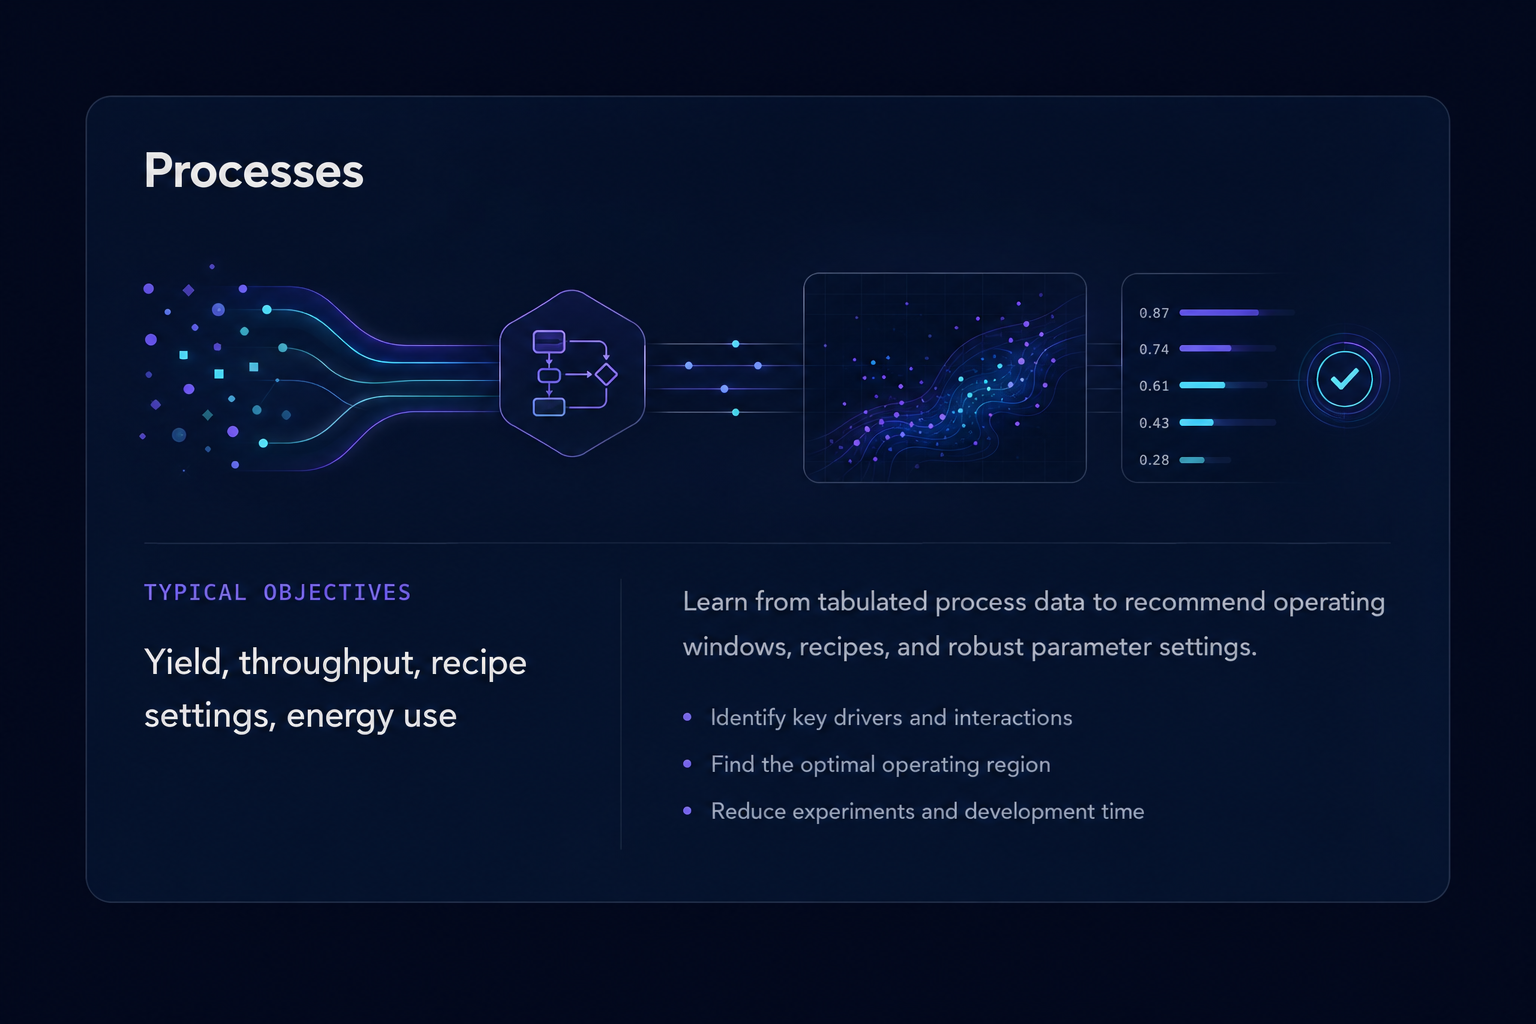
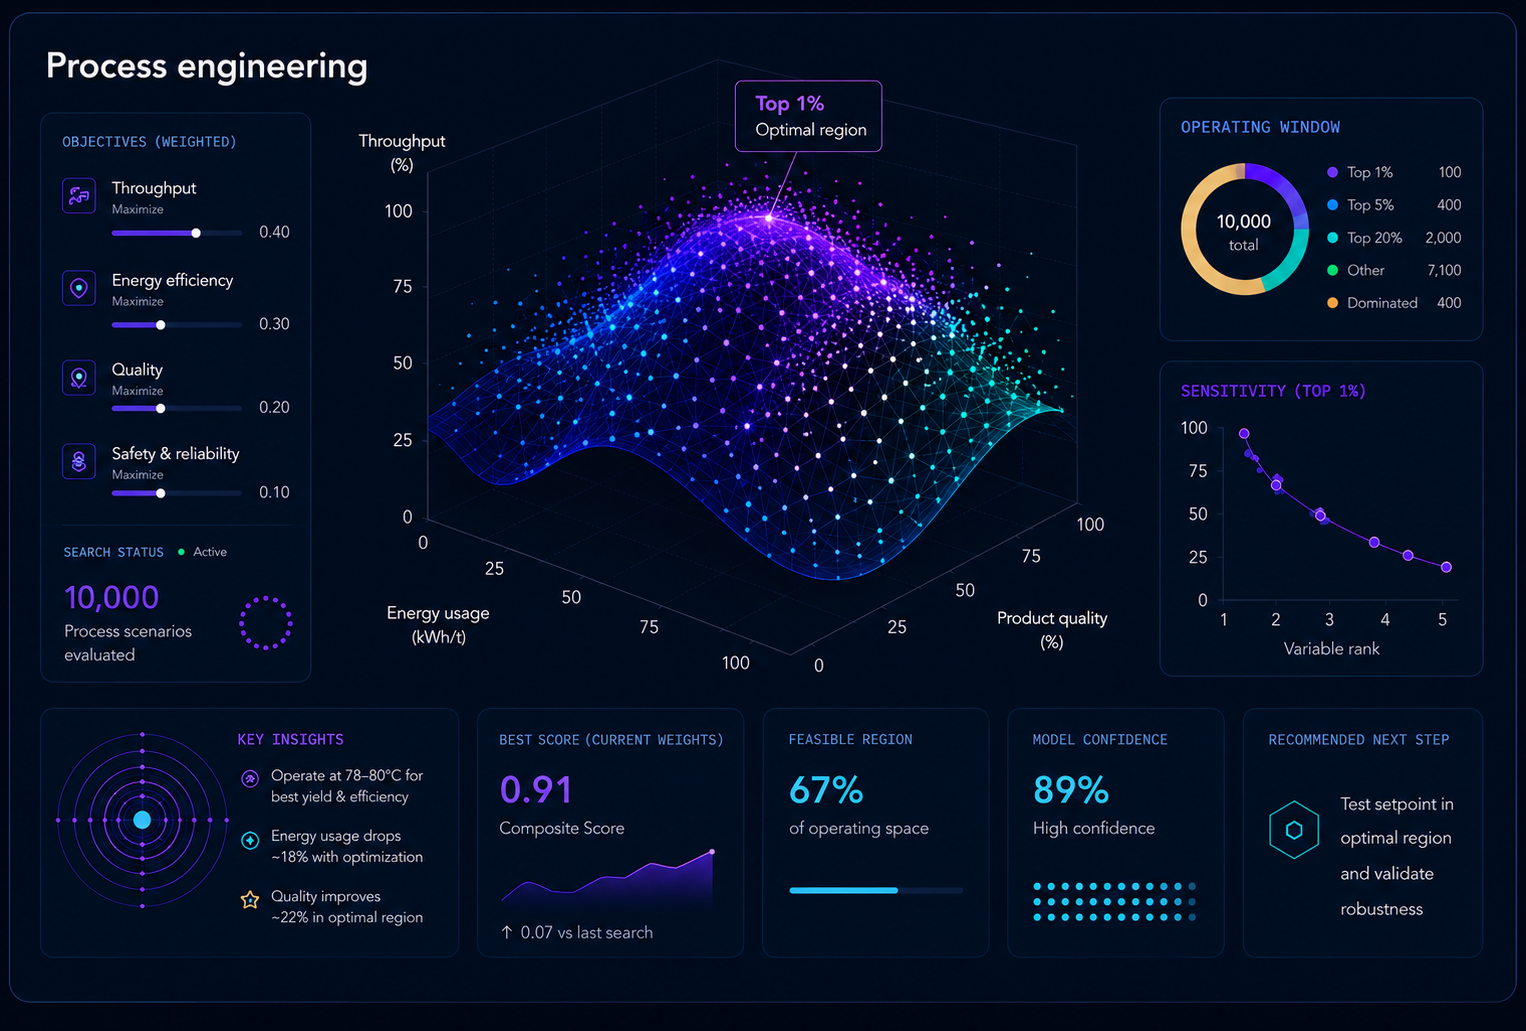
feat: refine landing page visuals and storyline

diff --git a/frontend/src/components/LandingPage.tsx b/frontend/src/components/LandingPage.tsx
@@ -2,8 +2,8 @@ import { useCallback, useEffect, useRef, useState, type MouseEvent } from 'react
 import { SignInButton, SignUpButton } from '@clerk/clerk-react'
 import batteriesImage from '../../assets/batteries.png'
 import coverageMapImage from '../../assets/coverage-map.png'
-import electrolyzersImage from '../../assets/electrolyzers.png'
-import manufacturingImage from '../../assets/manufacturing.png'
+import catImage from '../../assets/CAT.png'
+import miningImage from '../../assets/mining.png'
 import materialsImage from '../../assets/materials.png'
 import processImage from '../../assets/process.png'
 import residualPlotImage from '../../assets/residual-plot.png'
@@ -19,10 +19,10 @@ const NAV_ITEMS = [
 ]
 
 const PROCESS_STAGES = [
-  { number: '1', title: 'Documents', desc: 'Pressure requirement A sits on PDF page 324; material constraint B is buried in Word document 5.', meta: 'Raw engineering memory' },
-  { number: '2', title: 'Structure', desc: 'Mirai links both to the same pump, line, or vessel — and flags the collision for review.', meta: 'Approved project schema' },
-  { number: '3', title: 'Questions', desc: 'Ask which assets violate pressure limits, which constraints conflict, and what changed before downtime.', meta: 'Traceable answers' },
-  { number: '4', title: 'Predictions', desc: 'Prioritize inspections, maintenance actions, and operating changes before failure or shutdown.', meta: 'Decision support' },
+  { number: '1', title: 'Maintenance', desc: 'Unify work orders, inspection notes, failure history, and sensor exports to decide which assets need attention first.', meta: 'Asset priority' },
+  { number: '2', title: 'Operating Windows', desc: 'Connect requirements, plant records, and process data to find safer, more efficient settings.', meta: 'Recommended settings' },
+  { number: '3', title: 'Constraint Conflicts', desc: 'Surface mismatched limits across PDFs, spreadsheets, and engineering notes before they become operational risk.', meta: 'Review queue' },
+  { number: '4', title: 'Downtime Risk', desc: 'Learn from fragmented historical signals to anticipate where intervention is most likely to pay off.', meta: 'Decision support' },
 ]
 
 const PRODUCT_STAGES = [
@@ -95,11 +95,10 @@ const CANDIDATES = [
 ]
 
 const INDUSTRIES = [
-  { title: 'Processes', objectives: 'Yield, throughput, process settings, energy use', detail: 'Learn from tabulated process data to recommend operating windows, formulations, and robust parameter settings.', image: processImage },
   { title: 'Batteries', objectives: 'Capacity retention, fast-charge, safety margins, cost', detail: 'Balance formation protocols, material formulations, and cycle-life targets under sparse experimental budgets.', image: batteriesImage },
   { title: 'Materials', objectives: 'Strength, fatigue, corrosion, manufacturability', detail: 'Connect composition and processing variables to measured properties with traceable surrogate models.', image: materialsImage },
-  { title: 'Electrolyzers', objectives: 'Efficiency, lifetime, operating window, stack cost', detail: 'Optimize operating conditions while keeping durability and degradation risks visible.', image: electrolyzersImage },
-  { title: 'Advanced manufacturing', objectives: 'Yield, cycle time, defects, energy use', detail: 'Rank parameter sets for production experiments where downtime and scrap are expensive.', image: manufacturingImage },
+  { title: 'Electrolyzers', objectives: 'Efficiency, lifetime, operating window, stack cost', detail: 'Optimize operating conditions while keeping durability and degradation risks visible.', image: processImage },
+  { title: 'Advanced manufacturing', objectives: 'Yield, cycle time, defects, energy use', detail: 'Rank parameter sets for production experiments where downtime and scrap are expensive.', image: miningImage },
 ]
 
 const scatterPoints = Array.from({ length: 40 }, (_, i) => ({
@@ -116,11 +115,11 @@ function showDemoContactMessage(event: MouseEvent<HTMLElement>) {
 }
 
 function Eyebrow({ children }: { children: string }) {
-  return <p className="mb-4 font-mono text-[0.75rem] uppercase tracking-[0.15em] text-[#7C5CFF]">{children}</p>
+  return <p className="mb-5 inline-flex rounded-full border border-violet-300/25 bg-[#6D5DFB]/12 px-3 py-1.5 font-mono text-[0.72rem] font-semibold uppercase tracking-[0.14em] text-[#B9AEFF] shadow-[0_0_18px_rgba(109,93,251,0.08)]">{children}</p>
 }
 
 function Meta({ children, className = '' }: { children: string; className?: string }) {
-  return <p className={`font-mono text-[10px] uppercase tracking-[0.08em] text-[#8899BB] ${className}`}>{children}</p>
+  return <p className={`font-mono text-[10px] font-semibold uppercase tracking-[0.08em] text-[#AEBBDD] ${className}`}>{children}</p>
 }
 
 function MiraiLogo({ className = '' }: { className?: string }) {
@@ -210,8 +209,8 @@ function Hero() {
 
           <div className="mt-12 grid w-full gap-4 sm:grid-cols-2 lg:w-[min(1080px,calc(100vw-3rem))] lg:grid-cols-4">
             {[
-              { icon: '01', label: 'Knowledge', desc: 'The information already exists: requirements, reports, logs, test results. It is just impossible to use together.' },
-              { icon: '02', label: 'Structure', desc: 'Your experts know the answers. Mirai helps turn what lives in documents, spreadsheets, and people’s heads into approved project data.' },
+              { icon: '01', label: 'Knowledge', desc: 'The information already exists: requirements, reports, logs, and test results. It is scattered across systems and formats.' },
+              { icon: '02', label: 'Structure', desc: 'Your experts know the answers. Mirai helps bring what lives in documents, spreadsheets, and people’s heads into one trusted engineering view.' },
               { icon: '03', label: 'Learn', desc: 'Teams should not spend hours hunting for information. They should see patterns, risks, constraints, and opportunities.' },
               { icon: '04', label: 'Decide', desc: 'The next project should not start from zero. Every recommendation should build on what you already know.' },
             ].map((feature, index) => (
@@ -275,14 +274,17 @@ function ProblemDecisions() {
 
         <div className="mt-12 grid gap-4 md:grid-cols-4">
           {[
-            ['Maintenance', 'Prioritize assets before downtime.'],
-            ['Processes', 'Choose operating changes with evidence.'],
-            ['Products', 'Compare designs before expensive builds.'],
-            ['Experiments', 'Run the test that teaches the most.'],
-          ].map(([title, copy]) => (
-            <div key={title} className="rounded-2xl border border-violet-300/20 bg-[#09152F] p-6 text-center">
-              <h3 className="text-xl font-semibold text-[#F6F4EA]">{title}</h3>
+            ['01', 'Maintenance', 'The question becomes which asset deserves attention first, not where the evidence is stored.'],
+            ['02', 'Processes', 'The question becomes which operating change is safest and most valuable to make next.'],
+            ['03', 'Products', 'The question becomes which design or formulation should move forward before expensive builds begin.'],
+            ['04', 'Experiments', 'The question becomes which test will reduce uncertainty the most for the budget available.'],
+          ].map(([num, title, copy]) => (
+            <div key={title} className="group relative overflow-hidden rounded-2xl border border-violet-300/20 bg-[#09152F] p-6 transition-all duration-300 hover:-translate-y-0.5 hover:border-violet-300/35 hover:bg-[#0B1938]">
+              <div className="absolute inset-x-0 top-0 h-px bg-gradient-to-r from-transparent via-[#63D7FF]/45 to-transparent opacity-0 transition-opacity duration-300 group-hover:opacity-100" />
+              <span className="font-mono text-[11px] font-semibold tracking-[0.16em] text-[#63D7FF]">{num}</span>
+              <h3 className="mt-4 text-xl font-semibold text-[#F6F4EA]">{title}</h3>
               <p className="mt-3 text-sm leading-relaxed text-[#D6DEF0]">{copy}</p>
+              <div className="mt-6 h-px w-12 bg-gradient-to-r from-[#7C5CFF] to-transparent" />
             </div>
           ))}
         </div>
@@ -326,17 +328,17 @@ function Workflow() {
     <section id="workflow" className="relative border-t border-violet-300/15 bg-[#030716] py-16">
       <div className="mx-auto max-w-[1400px] px-6">
         <div className="mx-auto max-w-2xl text-center">
-          <Eyebrow>The Mirai workflow</Eyebrow>
+          <Eyebrow>Second solution</Eyebrow>
           <h2 className="text-3xl font-semibold leading-tight tracking-tight text-[#F6F4EA] sm:text-4xl">From engineering knowledge to ranked decisions.</h2>
           <p className="mt-4 text-sm leading-relaxed text-[#C5D0E6]">Mirai supports both operational engineering knowledge and structured product R&amp;D data before applying validated models and optimization.</p>
         </div>
         <div className="mt-12 rounded-2xl border border-violet-300/15 bg-[#071126]/60 p-5">
-          <Meta className="text-[#63D7FF]">Use Case 1 — Process Engineering</Meta>
-          <h3 className="mt-2 text-2xl font-semibold tracking-tight text-[#F6F4EA]">Organize operational knowledge before ML.</h3>
+          <Meta className="text-[#63D7FF]">Example 1 — Process Engineering</Meta>
+          <h3 className="mt-2 text-2xl font-semibold tracking-tight text-[#F6F4EA]">Unify fragmented process data and make better decisions with machine learning.</h3>
           <StageGrid stages={PROCESS_STAGES} />
         </div>
         <div className="mt-6 rounded-2xl border border-violet-300/15 bg-[#071126]/60 p-5">
-          <Meta className="text-[#7C5CFF]">Use Case 2 — Product Engineering</Meta>
+          <Meta className="text-[#7C5CFF]">Example 2 — Product Engineering</Meta>
           <h3 className="mt-2 text-2xl font-semibold tracking-tight text-[#F6F4EA]">Turn structured experimental data into optimized run plans.</h3>
           <StageGrid stages={PRODUCT_STAGES} />
         </div>
@@ -379,14 +381,14 @@ function ExperimentNavigator() {
 
         <div className="absolute bottom-8 left-6 right-6 z-20 lg:bottom-0 lg:left-0 lg:top-0 lg:flex lg:w-[440px] lg:max-w-[40vw] lg:flex-col lg:justify-center lg:px-14">
           <div className="rounded-2xl border border-white/10 bg-[#030716]/80 p-6 shadow-2xl backdrop-blur-xl lg:p-8">
-            <p className="mb-4 font-mono text-[11px] uppercase tracking-[0.22em] text-[#7C5CFF]/80">Use Case 2 — Product Engineering</p>
+            {stageIdx === 0 && <p className="mb-4 text-xl font-semibold leading-snug tracking-tight text-[#F6F4EA]">From fragmented data to battery testing — an example</p>}
             <div className="mb-5 flex items-center gap-2">
               {STORY_STAGES.map((item, index) => (
                 <div key={item.num} className={`h-[3px] flex-1 rounded-full transition-all duration-500 ${index === stageIdx ? 'bg-[#6D5DFB] shadow-[0_0_8px_rgba(109,93,251,0.5)]' : index < stageIdx ? 'bg-[#63D7FF]/50' : 'bg-white/10'}`} />
               ))}
               <span className="ml-1 min-w-[24px] text-right font-mono text-[10px] text-white/30">{stageIdx + 1}/{STORY_STAGES.length}</span>
             </div>
-            <p className="mb-2 font-mono text-[12px] uppercase tracking-[0.16em] text-[#7C5CFF]">{stage.num} / {stage.label}</p>
+            <p className="mb-2 font-mono text-[12px] font-semibold uppercase tracking-[0.16em] text-[#B9AEFF]">{stage.num} / {stage.label}</p>
             <h3 className="text-[22px] font-semibold leading-snug tracking-tight text-white">{stage.headline}</h3>
             <p className="mt-3 text-[14px] leading-relaxed text-[#C5D0E6]">{stage.body}</p>
             <div className="mt-5 flex flex-wrap gap-3 border-t border-white/10 pt-4">
@@ -417,7 +419,7 @@ function DataScientist() {
       <div className="pointer-events-none absolute left-1/4 right-1/4 top-0 h-px bg-gradient-to-r from-transparent via-violet-400/20 to-transparent" />
       <div className="mx-auto max-w-[1400px] px-6">
         <div className="mb-14 text-center">
-          <div className="mb-4 inline-flex items-center gap-2 rounded-full border border-violet-300/20 bg-[#6D5DFB]/5 px-4 py-1.5"><span className="font-mono text-[10px] tracking-wider text-[#7C5CFF]/80">First solution</span></div>
+          <div className="mb-5 inline-flex items-center gap-2 rounded-full border border-violet-300/25 bg-[#6D5DFB]/12 px-4 py-1.5 shadow-[0_0_18px_rgba(109,93,251,0.08)]"><span className="font-mono text-[11px] font-semibold uppercase tracking-[0.14em] text-[#B9AEFF]">First solution</span></div>
           <h2 className="text-3xl font-semibold leading-tight tracking-tight text-[#F6F4EA] sm:text-4xl">Ask across fragmented engineering knowledge.</h2>
           <p className="mx-auto mt-3 max-w-2xl text-base leading-relaxed text-[#C5D0E6]">Mirai helps teams find requirements, conflicts, maintenance patterns, and source evidence across project files — then turns the result into reviewed structure.</p>
         </div>
@@ -554,8 +556,8 @@ function Industries() {
           <h2 className="text-3xl font-semibold leading-tight tracking-tight text-[#F6F4EA] sm:text-4xl">Built for engineering domains where evidence is fragmented and trade-offs are real.</h2>
           <p className="mt-4 text-sm leading-relaxed text-[#D6DEF0]">Start with structured engineering data from documents, systems, and experiments. Expand across teams, projects, and sites.</p>
         </div>
-        <div className="mt-12 grid gap-5 md:grid-cols-2 xl:grid-cols-3">
-          {INDUSTRIES.map((industry) => <div key={industry.title} className="group overflow-hidden rounded-2xl border border-violet-300/20 bg-[#071126] p-2 shadow-[inset_0_1px_0_rgba(255,255,255,0.03)] transition-all duration-300 hover:border-violet-300/35"><div className="aspect-[3/2] overflow-hidden rounded-xl bg-[#030716]"><img src={industry.image} alt={`${industry.title} tabular experiment optimization`} className="h-full w-full object-contain object-center opacity-95 transition duration-500 group-hover:scale-[1.01]" /></div></div>)}
+        <div className="mx-auto mt-12 grid max-w-5xl gap-5 md:grid-cols-2">
+          {INDUSTRIES.map((industry) => <div key={industry.title} className="group overflow-hidden rounded-2xl border border-violet-300/20 bg-[#071126] p-2 shadow-[inset_0_1px_0_rgba(255,255,255,0.03)] transition-all duration-300 hover:border-violet-300/35"><div className="aspect-[3/2] overflow-hidden rounded-xl bg-[#030716]"><img src={industry.image} alt={`${industry.title} tabular experiment optimization`} className="h-full w-full object-cover object-center opacity-95 transition duration-500 group-hover:scale-[1.01]" /></div></div>)}
         </div>
       </div>
     </section>
@@ -567,17 +569,17 @@ function Cta() {
     <section id="cta" className="relative overflow-hidden border-t border-violet-300/15 bg-[#010412]">
       <div className="pointer-events-none absolute inset-0 bg-[radial-gradient(circle_at_18%_20%,rgba(109,93,251,0.14),transparent_32%),radial-gradient(circle_at_82%_78%,rgba(59,130,246,0.12),transparent_34%)]" />
       <div className="relative mx-auto max-w-[1400px] px-6 py-20">
-        <div className="grid items-center gap-10 lg:grid-cols-[0.95fr_1.05fr]">
+        <div className="grid items-center gap-12 lg:grid-cols-[1fr_0.9fr]">
           <div>
-            <p className="mb-4 font-mono text-[11px] uppercase tracking-[0.18em] text-[#7C5CFF]">Mirai</p>
-            <h2 className="text-3xl font-semibold leading-tight tracking-tight text-[#F6F4EA] sm:text-[2.5rem]">Make every physical test count.</h2>
-            <p className="mt-4 max-w-md text-base leading-relaxed text-[#D6DEF0]">Walk through knowledge structuring, traceability, surrogate diagnostics, and ranked recommendations for a representative slice of your engineering data.</p>
-            <p className="mt-3 max-w-md text-sm leading-relaxed text-[#AEBBDD]">Use Mirai to turn documents, historical experiments, maintenance records, and process tables into a defensible ranked plan before the next expensive lab or production run.</p>
+            <p className="mb-4 font-mono text-[11px] font-semibold uppercase tracking-[0.18em] text-[#B9AEFF]">Process and product engineering</p>
+            <h2 className="text-3xl font-semibold leading-tight tracking-tight text-[#F6F4EA] sm:text-[2.5rem]">Make every decision count.</h2>
+            <p className="mt-4 max-w-md text-base leading-relaxed text-[#D6DEF0]">Walk through how Mirai structures engineering knowledge, validates models, and ranks next actions across process and product engineering workflows.</p>
+            <p className="mt-3 max-w-md text-sm leading-relaxed text-[#AEBBDD]">Use Mirai to turn documents, historical experiments, maintenance records, and process tables into defensible decisions before the next lab run, plant change, or product iteration.</p>
             <div className="mt-8 flex flex-wrap gap-3"><a href={`mailto:${CONTACT_EMAIL}?subject=Mirai%20%E2%80%94%20Demo%20Request`} onClick={showDemoContactMessage} className="inline-flex h-11 items-center rounded-full bg-[#6D5DFB]/90 px-8 text-sm font-medium tracking-wide text-white transition-all duration-200 hover:bg-[#6D5DFB]">Request a demo</a><SignInButton mode="modal"><button className="inline-flex h-11 items-center rounded-full border border-violet-300/30 px-7 text-sm font-medium tracking-wide text-[#D6DEF0] transition-all duration-200 hover:border-[#6D5DFB]/50 hover:text-[#F6F4EA]">Sign in to Mirai</button></SignInButton><SignUpButton mode="modal"><button className="inline-flex h-11 items-center rounded-full border border-blue-300/20 px-7 text-sm font-medium tracking-wide text-[#D6DEF0] transition-all duration-200 hover:border-[#3B82F6]/50 hover:text-[#F6F4EA]">Create account</button></SignUpButton></div>
           </div>
-          <div className="overflow-hidden rounded-2xl border border-violet-300/20 bg-[#071126] p-3 shadow-[0_0_36px_rgba(109,93,251,0.12)]">
-            <div className="aspect-[2560/1429] overflow-hidden rounded-xl border border-blue-300/10 bg-[#020817]">
-              <img src="/assets/cta-bg.png" alt="Decision-ready Mirai run plan export" className="h-full w-full object-cover object-center opacity-100" />
+          <div className="w-full max-w-[620px] justify-self-center overflow-hidden rounded-2xl border border-violet-300/20 bg-[#020817] shadow-[0_0_36px_rgba(109,93,251,0.12)] lg:justify-self-end">
+            <div className="aspect-[1694/928] overflow-hidden">
+              <img src={catImage} alt="Industrial decision workflow in Mirai" className="h-full w-full object-contain object-center opacity-100" />
             </div>
           </div>
         </div>
